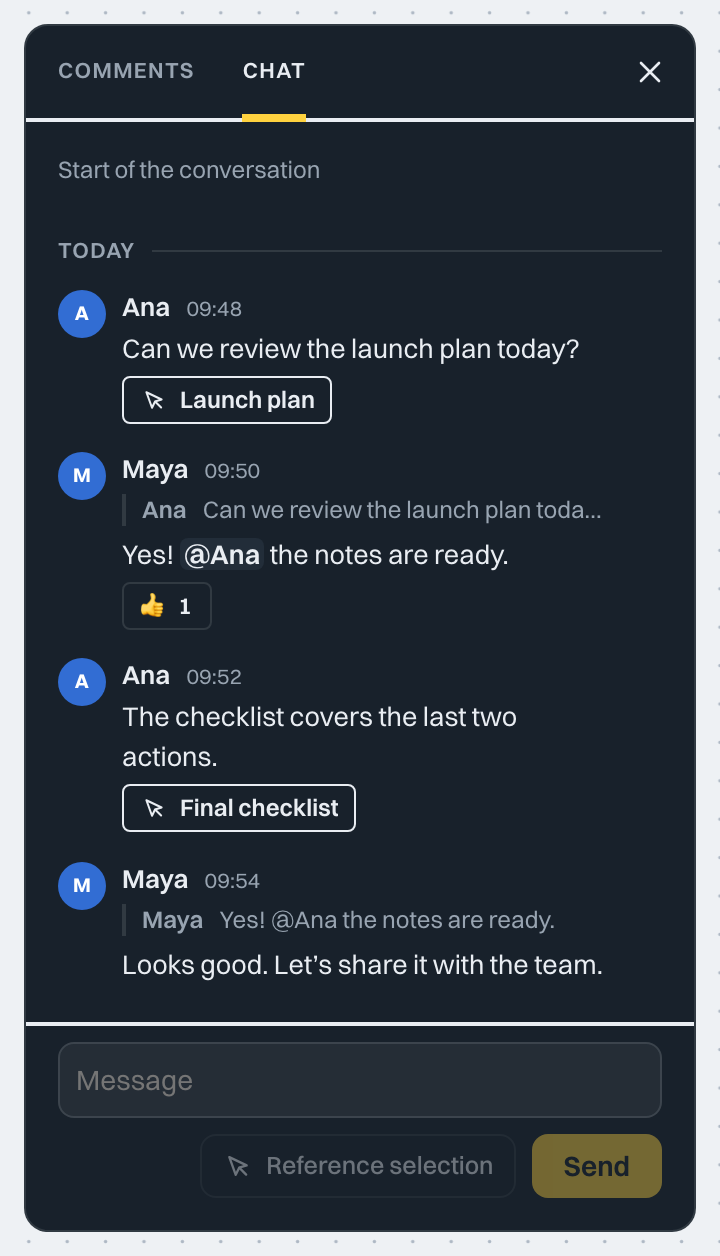
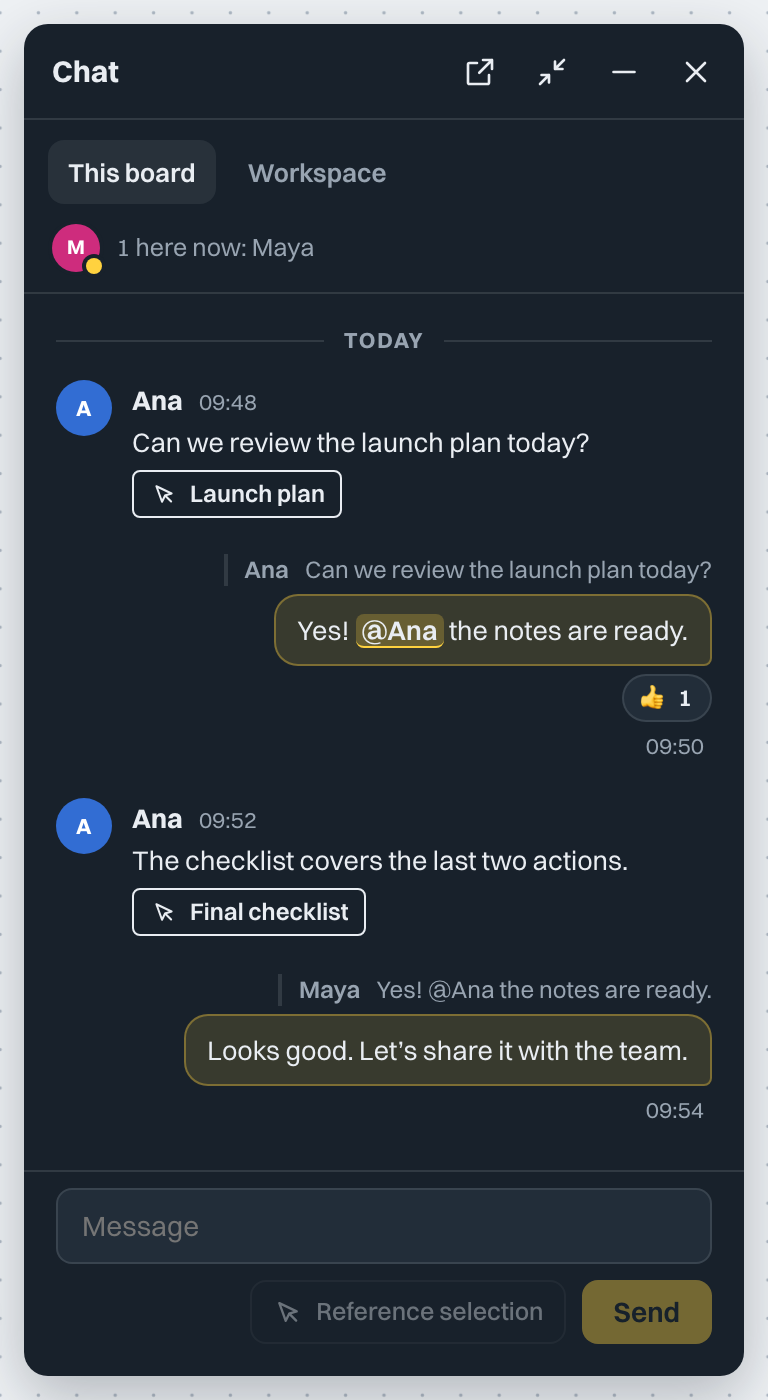
Docs: regenerate the scripted guide screenshots, add the Chat page shot, fix the chat image text, add an image check

Changed region(s): [[0.0, 0.0, 0.9778, 1.0], [0.4583, 0.2174, 0.55, 0.2795], [0.3056, 0.9005, 0.3361, 0.9315]]

diff --git a/test/docs-images.test.ts b/test/docs-images.test.ts
@@ -1,0 +1,63 @@
+import fs from 'node:fs';
+import path from 'node:path';
+import { describe, expect, it } from 'vitest';
+
+// The screenshots of the README and the user guide (docs/visual-check.md, "Docs images"): every image a page shows exists, has
+// words for a screen reader, stays small, and every image the script makes is in docs/images (so a rename cannot break a link).
+
+const root = path.resolve(import.meta.dirname, '..');
+const guide = path.join(root, 'docs', 'guide');
+const pages = [
+  ...fs.readdirSync(guide).filter((f) => f.endsWith('.md')).map((f) => path.join(guide, f)),
+  path.join(root, 'README.md'),
+];
+const MAX_BYTES = 400 * 1024;
+
+const refs = pages.flatMap((page) => {
+  const text = fs.readFileSync(page, 'utf8');
+  return [...text.matchAll(/!\[([^\]]*)\]\(([^)\s]+\.(?:png|webp|jpg))\)/g)].map((m) => ({
+    // the guide serves docs/images as its own images/ folder
+    page: path.relative(root, page), alt: m[1], file: path.resolve(path.dirname(page), m[2].replace(/^images\//, page.startsWith(guide) ? '../images/' : 'images/')),
+  }));
+});
+
+describe('guide and README images', () => {
+  it('finds the images the pages show', () => {
+    expect(refs.length).toBeGreaterThan(15);
+  });
+
+  it('points every image at a file that exists in docs/images', () => {
+    for (const r of refs) {
+      expect(fs.existsSync(r.file), `${r.page}: ${path.relative(root, r.file)}`).toBe(true);
+      expect(path.dirname(r.file)).toBe(path.join(root, 'docs', 'images'));
+    }
+  });
+
+  it('gives every image alt text that says what it shows', () => {
+    for (const r of refs) {
+      expect(r.alt.trim().length, `${r.page}: ${path.basename(r.file)}`).toBeGreaterThanOrEqual(10);
+      expect(r.alt, `${r.page}: ${path.basename(r.file)}`).not.toMatch(/earlier|old layout|screenshot of/i);
+    }
+  });
+
+  it('keeps each image under 400 KB', () => {
+    for (const r of refs) expect(fs.statSync(r.file).size, path.basename(r.file)).toBeLessThanOrEqual(MAX_BYTES);
+  });
+
+  it('has a file in docs/images for every image the script writes, and a PNG header on each', () => {
+    const script = fs.readFileSync(path.join(root, 'scripts', 'docs-images.mjs'), 'utf8');
+    const names = [...script.matchAll(/save\(page, '([\w-]+)'/g)].map((m) => m[1]);
+    expect(names).toEqual(expect.arrayContaining(['chat-tray', 'chat-page', 'layers-panel']));
+    for (const name of names) {
+      const file = path.join(root, 'docs', 'images', `${name}.png`);
+      expect(fs.existsSync(file), name).toBe(true);
+      expect([...fs.readFileSync(file).subarray(1, 4)].map((c) => String.fromCharCode(c)).join(''), name).toBe('PNG');
+    }
+  });
+
+  it('shows the dock and the Chat page in the chat guide', () => {
+    const chat = fs.readFileSync(path.join(guide, 'chat.md'), 'utf8');
+    expect(chat).toContain('images/chat-tray.png');
+    expect(chat).toContain('images/chat-page.png');
+  });
+});

diff --git a/docs/visual-check.md b/docs/visual-check.md
@@ -150,12 +150,12 @@ Each shot also checks that the page is not wider than the window and that no scr
 `npm run docs:images` re-creates the screenshots of the README and the user guide in `docs/images` (the user guide serves its screenshots from the same folder, so there is one copy) from the built app. It starts throwaway open-mode and accounts-mode relays on OS-assigned loopback ports, seeds fixed demo data (the board objects, a Design team with Maya and Ana, Sam in a second team, the boards and shares the shots need) and takes each image in a fresh headless context at 2x with the clock, locale, zone and theme fixed. The Chat tray uses a separate accounts-mode relay so enabling chat cannot change the other images. Its synthetic user IDs, messages, replies, mention, reaction and object links are fixed in real chat storage; retention is disabled in that throwaway workspace so the fixed dates never expire. The Backups tab uses a fixed list response with one protected backup and two unreadable backups; it needs no storage bucket or encryption key.
 
 ```bash
-npm run docs:images                                  # all fifteen, into docs/images
+npm run docs:images                                  # all sixteen, into docs/images
 npm run docs:images -- --only share-roles,signin     # some of them
 npm run docs:images -- --out /tmp/shots --no-build   # elsewhere, reusing dist/
 ```
 
-The images are: `shapes-panel`, `quick-actions`, `text-options`, `locked-badge`, `themes-menu-matrix`, `theme-ayu`, `business-model-canvas` (written as `template-business-model-canvas.png`), `signin`, `teams-home`, `access-removed`, `share-roles`, `admin-backups`, `chat-tray`, `kanban-card-dialog` and `layers-panel`. Change the code in `scripts/docs-images.mjs` when the UI moves; look at every image after a run, because a crop that was right can pick up a new bar or badge. Fontshare fonts are fetched once per run; offline, the shots use the system fonts.
+The images are: `shapes-panel`, `quick-actions`, `text-options`, `locked-badge`, `themes-menu-matrix`, `theme-ayu`, `business-model-canvas` (written as `template-business-model-canvas.png`), `signin`, `teams-home`, `access-removed`, `share-roles`, `admin-backups`, `chat-tray`, `chat-page`, `kanban-card-dialog` and `layers-panel`. Change the code in `scripts/docs-images.mjs` when the UI moves; look at every image after a run, because a crop that was right can pick up a new bar or badge. Fontshare fonts are fetched once per run; offline, the shots use the system fonts.
 
 ## Letting a page frame the app
 

diff --git a/docs/guide/chat.md b/docs/guide/chat.md
@@ -25,6 +25,8 @@ The channel list and the open conversation are dark panels, like the chat panel 
 - On a phone the list is one screen and the conversation another. **All channels** (or the browser's Back button) returns to the list.
 - On a team or workspace channel you may be unable to post. The box then says why, for example when the team is archived or the workspace is read-only.
 
+![The Chat page: the channel list on the left with Workspace and the board Design review, and the Design review conversation on the right with the same messages and Open board at the top](images/chat-page.png)
+
 The **Chat** link in the top bar shows how many messages you have not read in all your channels. On the **Boards** page, a number beside a board's name shows its unread chat messages.
 
 ## The chat panel
@@ -43,7 +45,7 @@ Chat opens in a floating panel at the right edge of the screen. It is the same p
 - On a phone (a screen narrower than 600 px) the panel opens as a bottom sheet over the board. Drag the handle down, or tap it, to turn the sheet into the chat button. The buttons are large and the message box stays above the keyboard.
 - The panel does not appear on the sign-in, invitation, join and app-consent pages, or on the Chat page itself, which is already the full chat.
 
-![Board chat with replies, a reaction, a mention and object chips (shown in the earlier side-panel layout)](images/chat-tray.png)
+![The chat panel on a board: Ana's messages with chips for the board objects they mention, Maya's replies as bubbles on the right with a mention and a thumbs-up reaction, and the message box below](images/chat-tray.png)
 
 ## Read
 

diff --git a/changelog.d/docs-screenshots-refresh.md b/changelog.d/docs-screenshots-refresh.md
@@ -1,0 +1,4 @@
+section: Changed
+audience: dev
+
+- Regenerated the guide and README screenshots on the current interface (rounded corners, the chat dock), added a Chat page screenshot to the chat guide, fixed the chat image text, and added a test that every page image exists, has alt text and stays under 400 KB.
